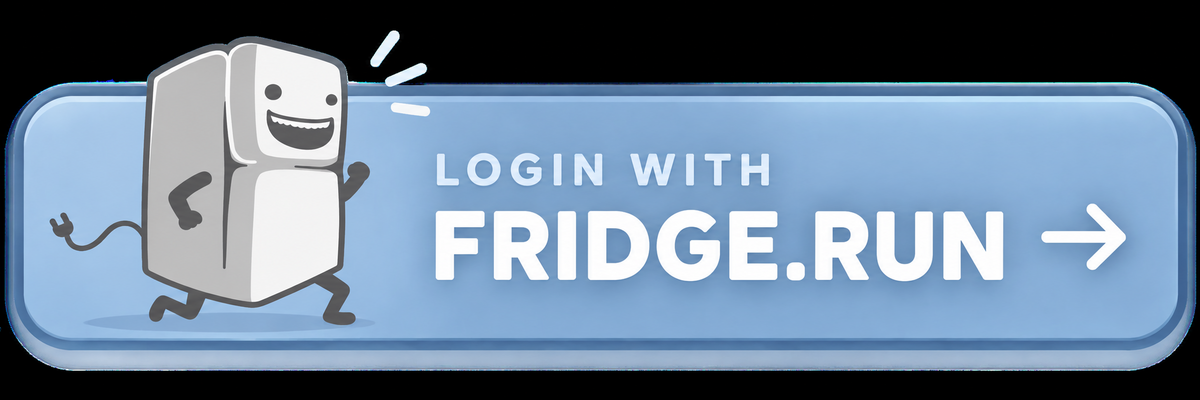
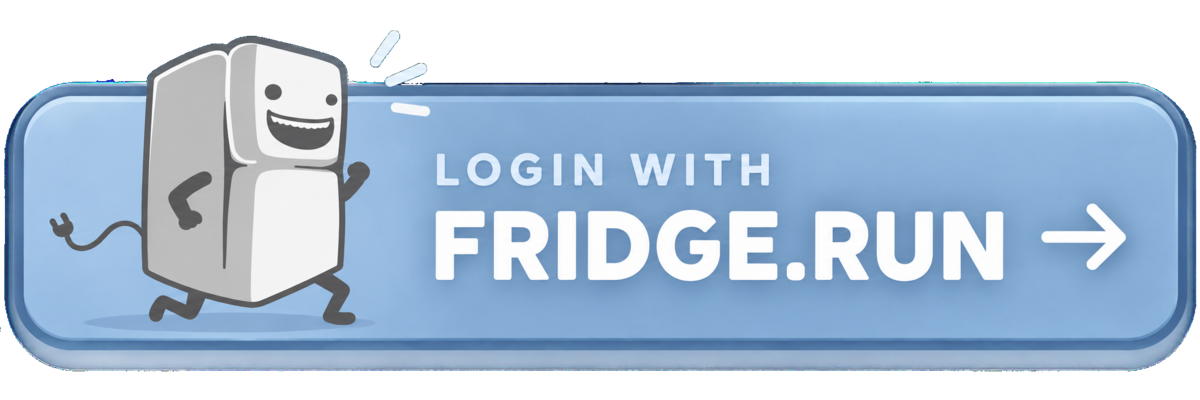
Make the LOGIN WITH FRIDGE artwork actually transparent
The PNG was opaque RGB on black, so the button rendered as a visible dark box
against the panel rather than blending into it.

Flood-filled the black from the four corners inward rather than keying out black
globally, so only the connected outer background becomes transparent. The
fridge's own black outlines and eyes are interior regions and survive intact -
verified by sampling: corner alpha 0, interior alpha 255.

Re-exported as RGBA PNG and WebP with an alpha channel (yuva420p). Still small:
12 KB at 1x, 27 KB at 2x. A background:#000 fallback is set on the image for any
renderer that drops alpha, which matches the page surface anyway.

Changed region(s): [[0.0, 0.0, 1.0, 1.0]]

diff --git a/index.html b/index.html
@@ -21,7 +21,10 @@
       border-radius: 14px; line-height: 0;
       transition: transform .12s ease, filter .12s ease;
     }
-    .fridge-btn img { width: 100%; height: auto; border-radius: 14px; display: block; }
+    /* Artwork now carries real alpha (outer black flood-filled out), so it sits
+       on any surface. background:#000 is a fallback for renderers that drop the
+       alpha channel - it matches the page surface either way. */
+    .fridge-btn img { width: 100%; height: auto; border-radius: 14px; display: block; background: #000; }
     .fridge-btn:hover, .fridge-btn:focus-visible { transform: translateY(-2px); filter: brightness(1.08); }
     .fridge-btn:focus-visible { outline: 2px solid #fff; outline-offset: 4px; }
     .secondary { margin: 4px 0 0; display: flex; gap: 10px; justify-content: center; flex-wrap: wrap; }

diff --git a/login/index.html b/login/index.html
@@ -19,7 +19,7 @@
       border-radius: 14px; line-height: 0;
       transition: transform .12s ease, filter .12s ease;
     }
-    .fridge-btn img { width: 100%; height: auto; border-radius: 14px; display: block; }
+    .fridge-btn img { width: 100%; height: auto; border-radius: 14px; display: block; background: #000; }
     .fridge-btn:hover, .fridge-btn:focus-visible { transform: translateY(-2px); filter: brightness(1.08); }
     .fridge-btn:focus-visible { outline: 2px solid #fff; outline-offset: 4px; }
     .fridge-btn[disabled] { cursor: not-allowed; filter: grayscale(.85) brightness(.6); transform: none; }
